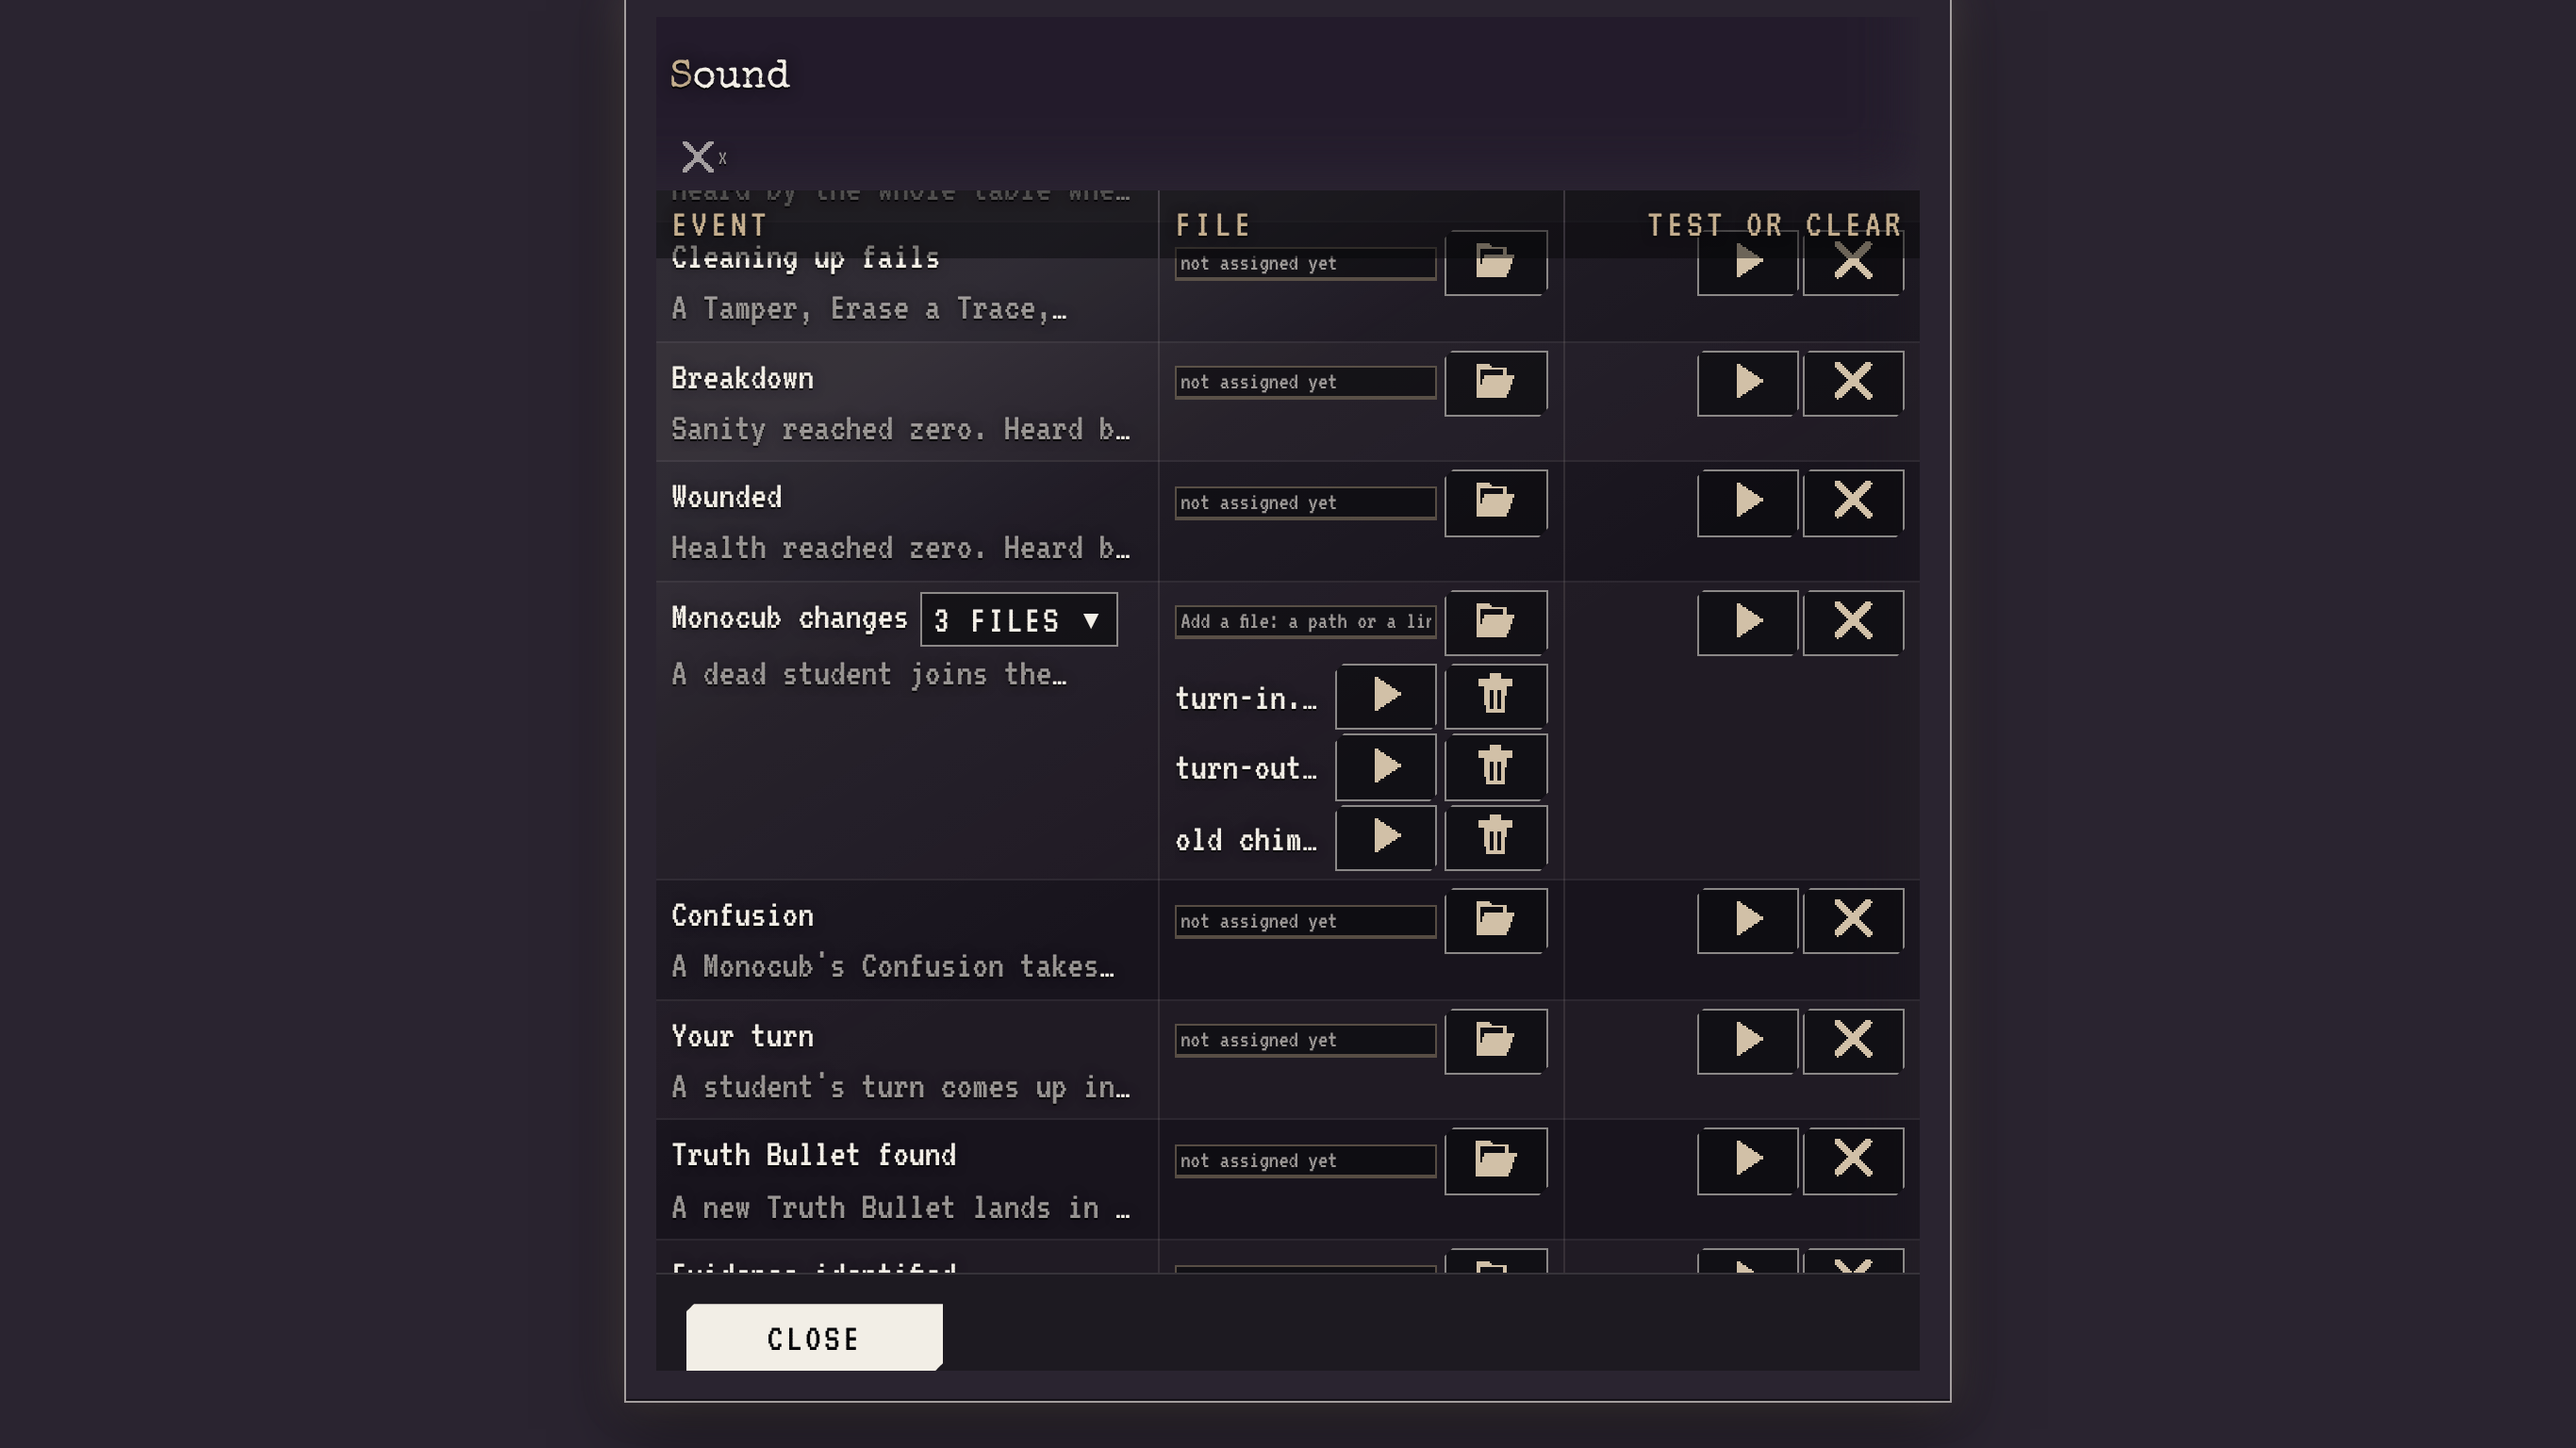
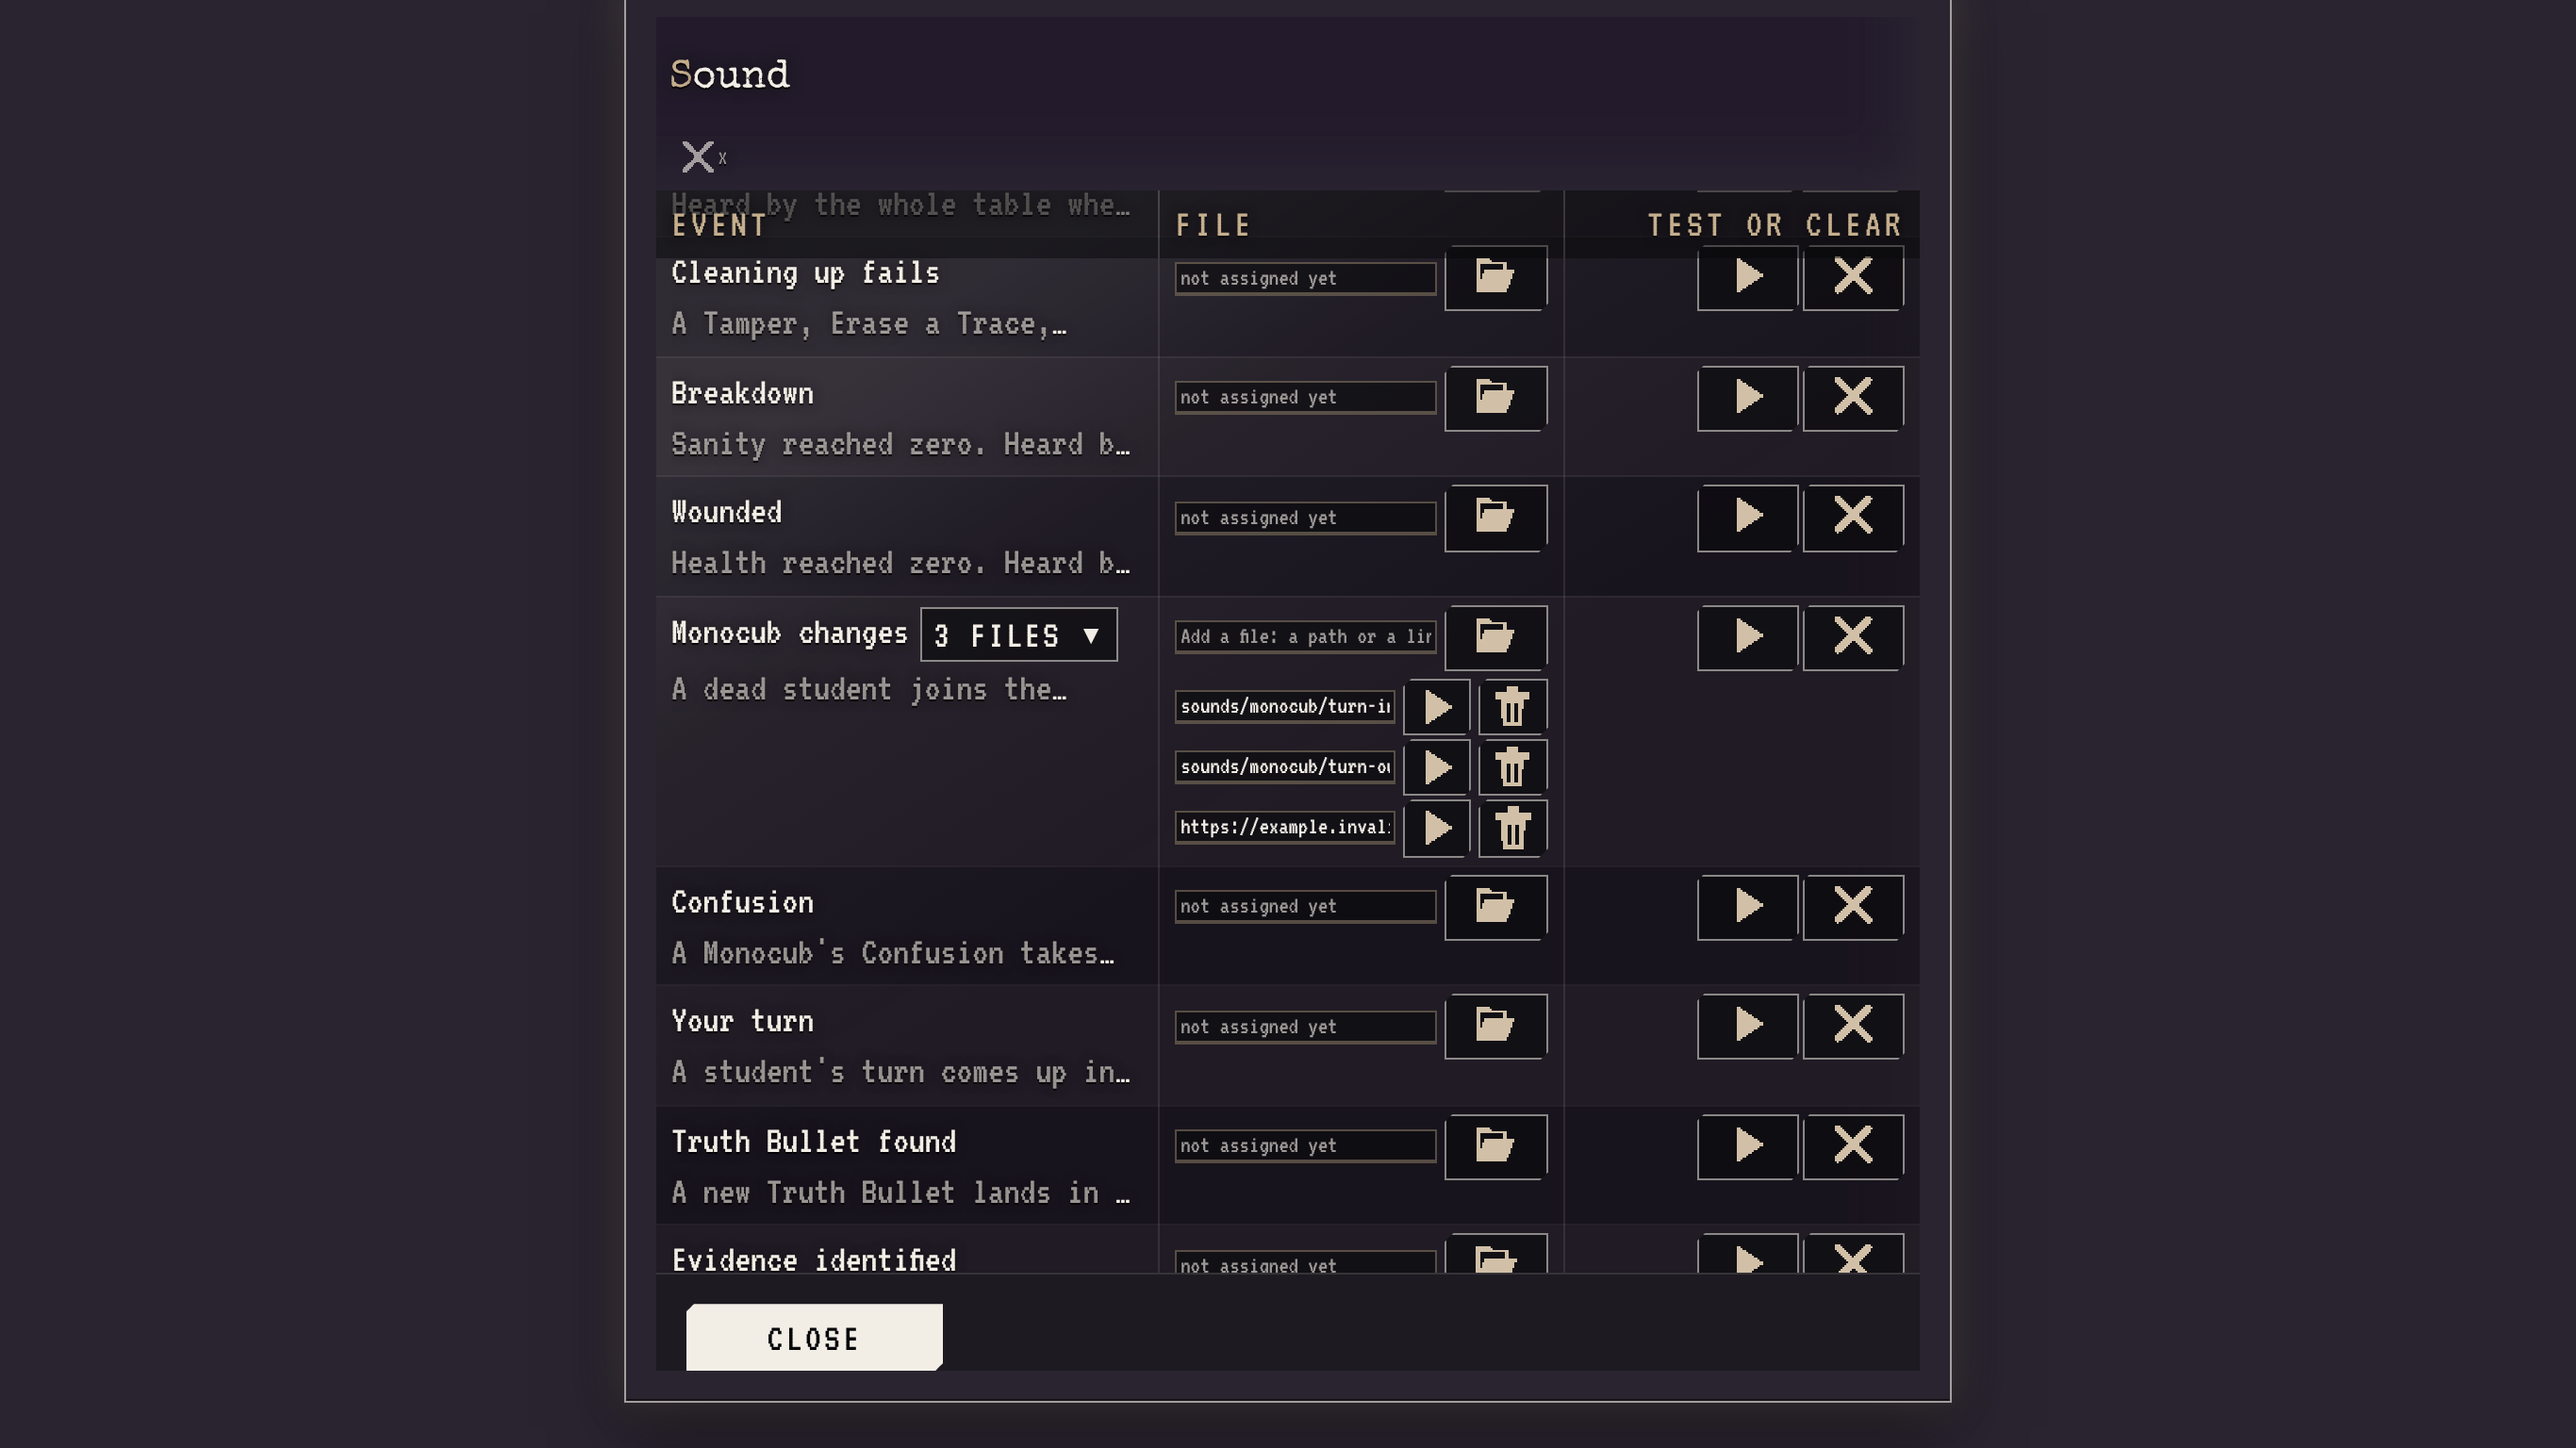
1.2.119 sound: shots, every file a box with its path [skip ci]
Claude-Session: https://claude.ai/code/session_01QsWhUajLpPF4Q2meU8shVq

diff --git a/audit/shots/sound-119/README.md b/audit/shots/sound-119/README.md
@@ -11,3 +11,7 @@ it headless).
 Updated for the branch's later commit (one line a name, cut with an ellipsis). `main-effects-<theme>-1366x768.png`: main
 b5a29e73's Effects tab scrolled to the same row, for the two things that are not this change's - the sticky head over
 the row under it (glass) and every icon a dash (Legacy) - which read the same there.
+
+Updated again for the owner's answer ("niech kazdy wiersz wyglada jak ten pierwszy (tzn wklejalny link a nie sama
+nazwa)"): every file of the row is a box like the row's own, holding its whole path or link, with Play and Remove.
+`files-*` are now of that (claude/sound-119 at its tip).
